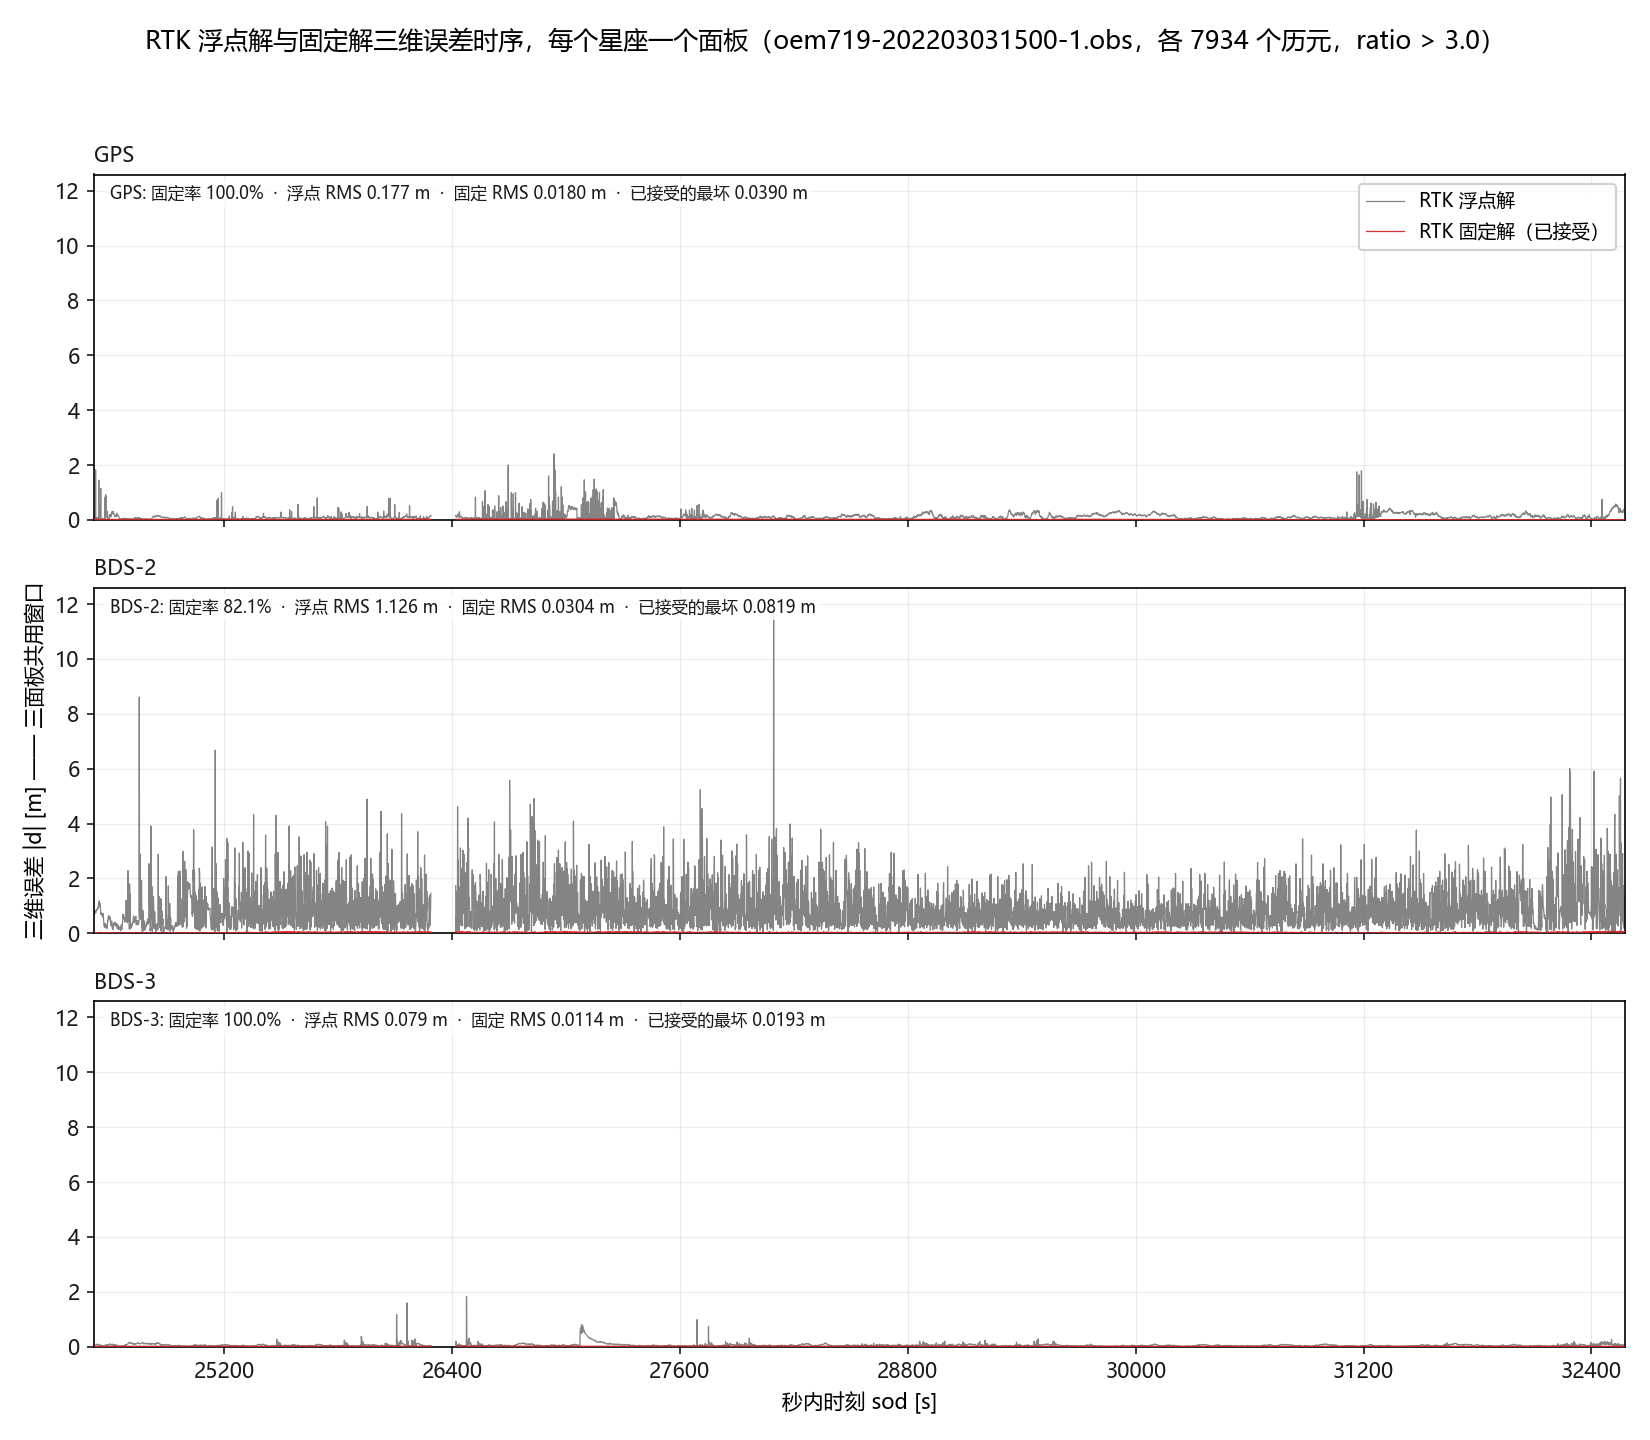
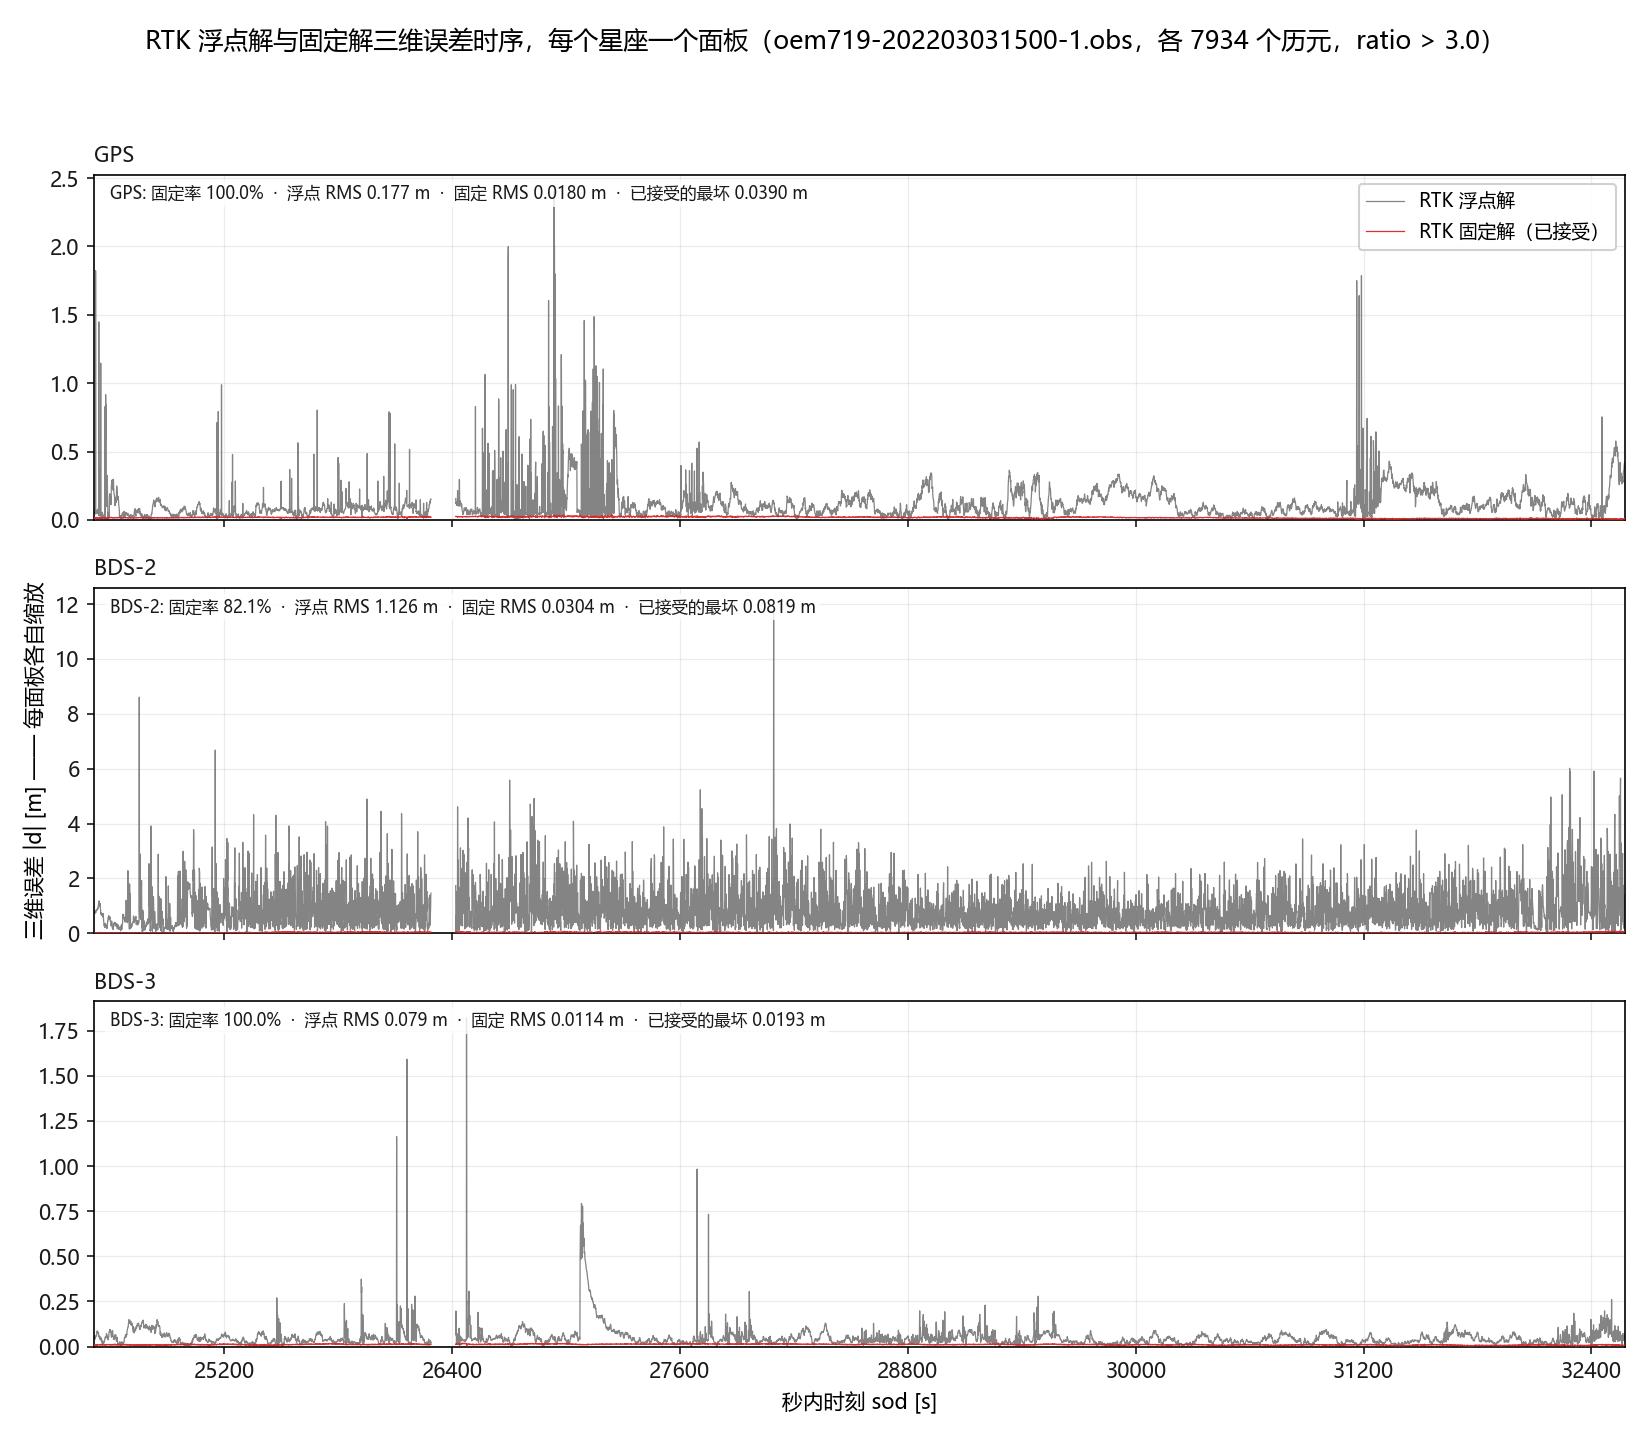
feat(plot): one y scale per panel in figures 8-1, 8-4 and 8-6
Dropping the log axis made the shared window the wrong choice: a linear window
set by the largest series (BDS-2's SPP reaches ~55 m) presses GPS's and BDS-3's
onto the bottom edge, where nothing about their shape can be read. Each panel
now scales to its own data with the bottom pinned to zero, so all three show
their own wander over the run - which is exactly what the linear axis was asked
for. The cross-constellation comparison moves entirely to the panel annotations,
where the RMS and offset figures already were.

The axis labels no longer say "one window for all panels" / "三面板共用窗口";
they say each panel has its own scale.

diff --git a/python/src/gnss_plot/figures.py b/python/src/gnss_plot/figures.py
@@ -890,10 +890,10 @@ def fig_rtk_spp_vs_rtk_ts(modes, out_png, rover="", lang="en"):
     both *how large* the SPP error is and that the differential solution is two
     orders below it. A logarithmic axis shows the ratio instead and hides the
     size - which is why this chapter's figures are all linear (chapter 8's
-    figures, like the rest of the report). The window is fixed and shared by all
-    three panels - refitting it per constellation would make BDS-2's 1.13 m and
-    BDS-3's 0.076 m look alike, and telling those two apart is what section four
-    concludes.
+    figures, like the rest of the report). Each panel is scaled to its own data -
+    the constellations differ by an order of magnitude, so a shared linear window
+    would press the smaller two onto the bottom edge; comparing them is the
+    annotation's job, which is where the numbers were read from anyway.
 
     A magnitude of exactly zero still becomes a NaN here rather than a plotted
     point. On this axis the resulting gap sits on the bottom edge and is a
@@ -903,7 +903,7 @@ def fig_rtk_spp_vs_rtk_ts(modes, out_png, rover="", lang="en"):
     modes = [(str(m[0]), np.asarray(m[1], dtype=float), m[2]) for m in modes]
     n = max((int(sod.size) for _l, sod, _s in modes), default=0)
 
-    fig, axes = plt.subplots(3, 1, figsize=(11, 9.6), sharex=True, sharey=True)
+    fig, axes = plt.subplots(3, 1, figsize=(11, 9.6), sharex=True)
     fig.suptitle(t(lang, "title_rtk_spp", rover=rover or "-", n=n), fontsize=12)
 
     for k, (ax, (label, sod, stats)) in enumerate(zip(axes, modes)):
@@ -930,7 +930,7 @@ def fig_rtk_spp_vs_rtk_ts(modes, out_png, rover="", lang="en"):
 
         ax.set_title(label, loc="left", fontsize=10, color=INK)
         # The annotation needs a backing here, which the sibling figure gets
-        # away without: the shared five-decade window runs the SPP band
+        # away without: the window runs the series straight through it
         # straight through this corner of every panel.
         ax.text(0.01, 0.97, "\n".join(notes), transform=ax.transAxes, va="top",
                 fontsize=8, color=INK,
@@ -943,13 +943,13 @@ def fig_rtk_spp_vs_rtk_ts(modes, out_png, rover="", lang="en"):
     # One label for the middle panel only: the three panels carry the same
     # quantity, so repeating it three times would say nothing new.
     axes[1].set_ylabel(t(lang, "axis_rtk_mag"), fontsize=10)
-    # Linear, and set on the first panel only: sharey propagates both the scale
-    # and the window to the other two, which is the point of sharing them. The
-    # RTK band therefore sits on the bottom edge of the window while the SPP
-    # band crosses the top of it, and the distance between them is what the
-    # figure is for - a log axis would compress that into a ratio and hide how
-    # large the SPP error actually is.
-    axes[0].set_ylim(bottom=0.0)
+    # Each panel is scaled to its own data, with its bottom pinned to zero. The
+    # constellations' errors differ by an order of magnitude (BDS-2's SPP runs
+    # to ~55 m, GPS's to ~5), and on a shared *linear* axis the smaller two
+    # would be pressed onto the bottom edge. What the shared height used to
+    # carry - which constellation is worse - is on the panel as numbers.
+    for ax in axes:
+        ax.set_ylim(bottom=0.0)
     axes[-1].set_xlabel(t(lang, "axis_sod"), fontsize=10)
     _sod_axis(axes[-1], np.concatenate([s for _l, s, _s in modes])
               if modes else np.asarray([], dtype=float))
@@ -1164,7 +1164,7 @@ def fig_rtk_float_vs_fixed_ts(modes, out_png, rover="", lang="en", threshold=3.0
               np.asarray(m[4], dtype=bool)) for m in modes]
     n = max((int(sod.size) for _l, sod, *_r in modes), default=0)
 
-    fig, axes = plt.subplots(3, 1, figsize=(11, 9.6), sharex=True, sharey=True)
+    fig, axes = plt.subplots(3, 1, figsize=(11, 9.6), sharex=True)
     fig.suptitle(t(lang, "title_rtk_fix", rover=rover or "-", n=n,
                    thr="%.1f" % threshold), fontsize=12)
 
@@ -1195,7 +1195,8 @@ def fig_rtk_float_vs_fixed_ts(modes, out_png, rover="", lang="en", threshold=3.0
         style_ax(ax)
 
     axes[1].set_ylabel(t(lang, "axis_rtk_mag_fix"), fontsize=10)
-    axes[0].set_ylim(bottom=0.0)
+    for ax in axes:
+        ax.set_ylim(bottom=0.0)
     axes[-1].set_xlabel(t(lang, "axis_sod"), fontsize=10)
     _sod_axis(axes[-1], np.concatenate([s for _l, s, *_r in modes])
               if modes else np.asarray([], dtype=float))
@@ -1280,11 +1281,10 @@ def fig_rtk_lsq_vs_kalman_ts(panels, out_png, rover="", lang="en"):
     single-epoch solution against the filter, and the legends say so - the
     grammar is what carries over, not the identity of the two methods.
 
-    **The window is figure 8-1's**, unchanged and shared by all three panels,
-    so the grey band here sits at the height of the red band in 8-1 and of the
-    grey band in 8-4. The three are meant to be read against each other: the
-    gap between the bands is what the filter bought, which is the same quantity
-    the section's tables report.
+    **The layout is figure 8-1's** - three panels, one per constellation, each
+    scaled to its own data with the bottom pinned to zero - so the gap between
+    the grey and red bands is read the same way in both figures. The gap is what
+    the filter bought, the same quantity the section's tables report.
 
     Both series are annotated with the **3-D RMS**, not the median, because
     that is the statistic the tables use. A median would hide exactly what this
@@ -1300,7 +1300,7 @@ def fig_rtk_lsq_vs_kalman_ts(panels, out_png, rover="", lang="en"):
                np.asarray(p[4], dtype=float)) for p in panels]
     n = max((int(p[1].size) for p in panels), default=0)
 
-    fig, axes = plt.subplots(3, 1, figsize=(11, 9.6), sharex=True, sharey=True)
+    fig, axes = plt.subplots(3, 1, figsize=(11, 9.6), sharex=True)
     fig.suptitle(t(lang, "title_rtk_kalman", rover=rover or "-", n=n),
                  fontsize=12)
 
@@ -1335,7 +1335,8 @@ def fig_rtk_lsq_vs_kalman_ts(panels, out_png, rover="", lang="en"):
         style_ax(ax)
 
     axes[1].set_ylabel(t(lang, "axis_rtk_mag_kalman"), fontsize=10)
-    axes[0].set_ylim(bottom=0.0)
+    for ax in axes:
+        ax.set_ylim(bottom=0.0)
     axes[-1].set_xlabel(t(lang, "axis_sod"), fontsize=10)
     sods = [s for _l, s_l, _a, s_k, _b in panels for s in (s_l, s_k)]
     _sod_axis(axes[-1], np.concatenate(sods) if sods

diff --git a/python/src/gnss_plot/_strings.py b/python/src/gnss_plot/_strings.py
@@ -147,7 +147,7 @@ STRINGS: dict[str, dict[str, str]] = {
         # BDS-2's 1.13 m and BDS-3's 0.076 m do not look alike, and "deviation"
         # rather than "error" is what the axis actually measures: a distance
         # from the base header coordinate, which this dataset cannot check.
-        "axis_rtk_mag": "deviation |d| [m] — one window for all panels",
+        "axis_rtk_mag": "deviation |d| [m] — each panel its own scale",
         # Short, as in the sibling figures (8-4's "RTK float").
         "legend_spp": "SPP",
         "legend_rtk": "RTK float",
@@ -170,7 +170,7 @@ STRINGS: dict[str, dict[str, str]] = {
         # a longer label runs off the bottom of a three-panel figure once
         # tight_layout has taken its share. What grey and red mean is the
         # legend's job, not the axis label's.
-        "axis_rtk_mag_fix": "3-D error |d| [m] — one window for all panels",
+        "axis_rtk_mag_fix": "3-D error |d| [m] — each panel its own scale",
         "legend_float": "RTK float",
         "legend_fixed": "RTK fixed (accepted)",
         # {rate} and the RMS values are numbers, not preformatted strings: the
@@ -190,7 +190,7 @@ STRINGS: dict[str, dict[str, str]] = {
 
         # --- the estimator comparison (figure 8-6) ---
         # Same length as axis_rtk_mag_fix, for the reason given above it.
-        "axis_rtk_mag_kalman": "3-D error |d| [m] — one window for all panels",
+        "axis_rtk_mag_kalman": "3-D error |d| [m] — each panel its own scale",
         "title_rtk_kalman": "RTK float: single-epoch LSQ vs Kalman filter, one "
                             "panel per constellation ({rover}, {n} epochs each)",
         # Named for the estimators, not for "float" against "something else":
@@ -408,7 +408,7 @@ STRINGS: dict[str, dict[str, str]] = {
         # --- SPP 与 RTK 对比图（图 8-1）---
         "title_rtk_spp": "SPP 与 RTK 相对参考坐标的三维偏差时序，每个星座一个面板"
                          "（{rover}，各 {n} 个历元）",
-        "axis_rtk_mag": "相对参考坐标的偏差 |d| [m] —— 三面板共用窗口",
+        "axis_rtk_mag": "相对参考坐标的偏差 |d| [m] —— 每面板各自缩放",
         # 与同章的图 8-4 一样取短标签。
         "legend_spp": "SPP",
         "legend_rtk": "RTK 浮点解",
@@ -423,7 +423,7 @@ STRINGS: dict[str, dict[str, str]] = {
         # --- 固定解（图 8-4、图 8-5）---
         "title_rtk_fix": "RTK 浮点解与固定解三维误差时序，每个星座一个面板"
                          "（{rover}，各 {n} 个历元，ratio > {thr}）",
-        "axis_rtk_mag_fix": "三维误差 |d| [m] —— 三面板共用窗口",
+        "axis_rtk_mag_fix": "三维误差 |d| [m] —— 每面板各自缩放",
         "legend_float": "RTK 浮点解",
         "legend_fixed": "RTK 固定解（已接受）",
         "annot_rtk_fix": "{mode}: 固定率 {rate:.1f}%  ·  浮点 RMS {frms:.3f} m  "
@@ -436,7 +436,7 @@ STRINGS: dict[str, dict[str, str]] = {
         "annot_ratio_thr": "阈值 {thr} —— 该线左侧全部被拒",
 
         # --- 解算器对比（图 8-6）---
-        "axis_rtk_mag_kalman": "三维误差 |d| [m] —— 三面板共用窗口",
+        "axis_rtk_mag_kalman": "三维误差 |d| [m] —— 每面板各自缩放",
         "title_rtk_kalman": "RTK 浮点解：单历元最小二乘与卡尔曼滤波对比，"
                             "每个星座一个面板（{rover}，各 {n} 个历元）",
         "legend_lsq_float": "单历元最小二乘（浮点解）",
